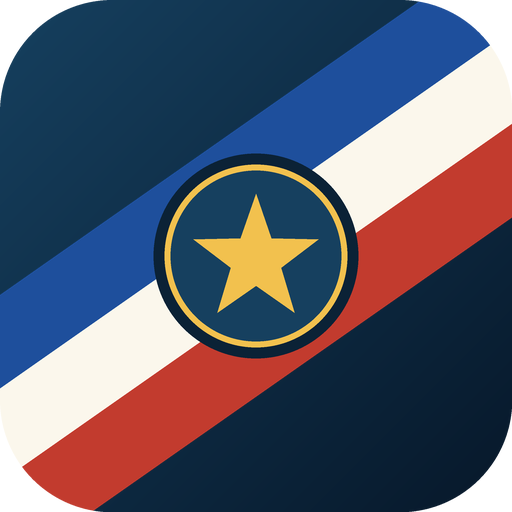
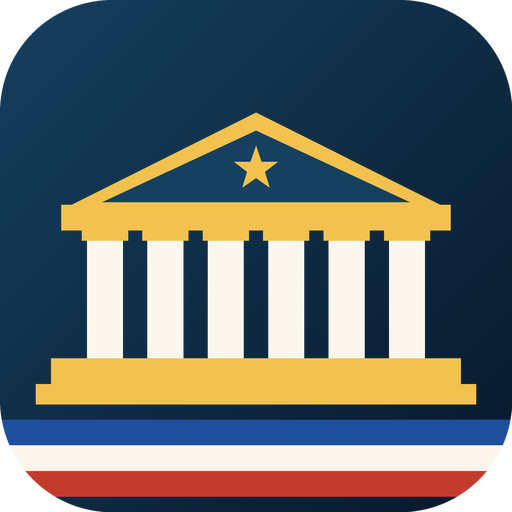
Ícono elegido por el usuario: fachada de La Moneda con la banda tricolor (propuesta B); adaptativo, 192, SVG y arranque
Claude-Session: https://claude.ai/code/session_015HWWmkEwJCj4FJzfaCJi9b

diff --git a/tools/arte/generar_icono.py b/tools/arte/generar_icono.py
@@ -1,5 +1,5 @@
 #!/usr/bin/env python3
-"""Genera el icono del juego (banda presidencial tricolor con estrella dorada sobre océano) y la imagen de arranque.
+"""Genera el icono del juego (fachada de La Moneda con la banda tricolor al pie, sobre océano) y la imagen de arranque.
 Salidas: icon.svg, game/arte/marca/{icono_512,icono_fg_432,icono_bg_432,icono_192,splash}.png. Paleta de CLAUDE.md §5."""
 import math
 from pathlib import Path
@@ -52,28 +52,57 @@ def banda(n: int, margen: float) -> Image.Image:
     return capa.resize((n, n), Image.LANCZOS)
 
 
+def moneda(n: int, escala: float = 1.0, sangrado: bool = True) -> Image.Image:
+    """Fachada neoclásica de La Moneda (dorada y crema) con la banda tricolor al pie; capa RGBA transparente."""
+    S = n * SS
+    capa = Image.new("RGBA", (S, S), (0, 0, 0, 0))
+    d = ImageDraw.Draw(capa)
+
+    def X(v: float) -> float:
+        return S * (0.5 + (v - 0.5) * escala)
+
+    def Y(v: float) -> float:
+        return S * (0.5 + (v - 0.5) * escala)
+
+    d.polygon([(X(0.14), Y(0.40)), (X(0.50), Y(0.22)), (X(0.86), Y(0.40))], fill=ORO)
+    d.polygon([(X(0.20), Y(0.395)), (X(0.50), Y(0.255)), (X(0.80), Y(0.395))], fill=PANEL)
+    d.rectangle([X(0.12), Y(0.40), X(0.88), Y(0.45)], fill=ORO)
+    for i in range(6):
+        x = 0.17 + i * 0.118
+        d.rectangle([X(x), Y(0.45), X(x + 0.07), Y(0.70)], fill=CREMA)
+        d.rectangle([X(x - 0.01), Y(0.45), X(x + 0.08), Y(0.47)], fill=ORO)
+    d.rectangle([X(0.10), Y(0.70), X(0.90), Y(0.75)], fill=ORO)
+    d.rectangle([X(0.07), Y(0.75), X(0.93), Y(0.79)], fill=ORO)
+    izq, der = (0.0, 1.0) if sangrado else (0.07, 0.93)
+    for color, y in ((AZUL, 0.82), (CREMA, 0.87), (ROJO, 0.92)):
+        d.rectangle([X(izq) if not sangrado else 0, Y(y), X(der) if not sangrado else S, Y(y + 0.05)], fill=color)
+    estrella(d, X(0.50), Y(0.33), S * 0.045 * escala, ORO)
+    return capa.resize((n, n), Image.LANCZOS)
+
+
 def main() -> None:
     out = ROOT / "game" / "arte" / "marca"
     out.mkdir(parents=True, exist_ok=True)
-    fg = banda(432, 0.34)  # zona segura de los iconos adaptativos (≈ 66 %)
-    fg.save(out / "icono_fg_432.png")
+    moneda(432, 0.66, sangrado=False).save(out / "icono_fg_432.png")  # zona segura de los iconos adaptativos
     fondo(432).save(out / "icono_bg_432.png")
     icono = fondo(512).convert("RGBA")
-    icono.alpha_composite(banda(512, 0.10))
+    icono.alpha_composite(moneda(512))
     mascara = Image.new("L", (512 * SS, 512 * SS), 0)
     ImageDraw.Draw(mascara).rounded_rectangle([0, 0, 512 * SS, 512 * SS], radius=112 * SS, fill=255)
     icono.putalpha(mascara.resize((512, 512), Image.LANCZOS))
     icono.save(out / "icono_512.png")
     icono.resize((192, 192), Image.LANCZOS).save(out / "icono_192.png")
-    s = Image.new("RGB", (1080, 1920), OCEANO)
-    s.paste(fondo(1080).crop((0, 0, 1080, 1080)).resize((1080, 1920)), (0, 0))
-    s.paste(icono.resize((420, 420), Image.LANCZOS), (330, 700), icono.resize((420, 420), Image.LANCZOS))
+    s = fondo(1080).resize((1080, 1920))
+    g = icono.resize((460, 460), Image.LANCZOS)
+    s.paste(g, (310, 700), g)
     s.save(out / "splash.png")
     (ROOT / "icon.svg").write_text(
         '<svg xmlns="http://www.w3.org/2000/svg" width="128" height="128" viewBox="0 0 128 128"><rect width="128" height="128" rx="28" fill="#0B2236"/>'
-        '<g transform="rotate(-35 64 64)"><rect x="-20" y="42" width="168" height="15" fill="#1E4F9C"/><rect x="-20" y="57" width="168" height="15" fill="#FBF7EC"/>'
-        '<rect x="-20" y="72" width="168" height="15" fill="#C23B2E"/></g><circle cx="64" cy="64" r="22" fill="#16405F" stroke="#F2C14E" stroke-width="2"/>'
-        '<path d="M64 47l5 11 12 1-9 8 3 12-11-6-11 6 3-12-9-8 12-1z" fill="#F2C14E"/></svg>\n', encoding="utf-8")
+        '<path d="M18 51L64 28l46 23z" fill="#F2C14E"/><path d="M26 50.5L64 32.6 102 50.5z" fill="#16405F"/><rect x="15" y="51" width="98" height="6" fill="#F2C14E"/>'
+        '<g fill="#FBF7EC"><rect x="22" y="57" width="8" height="32"/><rect x="37" y="57" width="8" height="32"/><rect x="52" y="57" width="8" height="32"/>'
+        '<rect x="67" y="57" width="8" height="32"/><rect x="82" y="57" width="8" height="32"/><rect x="97" y="57" width="8" height="32"/></g><rect x="13" y="89" width="102" height="6" fill="#F2C14E"/>'
+        '<rect x="9" y="95" width="110" height="5" fill="#F2C14E"/><rect y="105" width="128" height="7" fill="#1E4F9C"/><rect y="112" width="128" height="6" fill="#FBF7EC"/>'
+        '<rect y="118" width="128" height="10" fill="#C23B2E"/><path d="M64 36l2.4 5.2 5.6.6-4.2 3.8 1.2 5.6-5-2.8-5 2.8 1.2-5.6-4.2-3.8 5.6-.6z" fill="#F2C14E"/></svg>\n', encoding="utf-8")
 
 
 if __name__ == "__main__":
